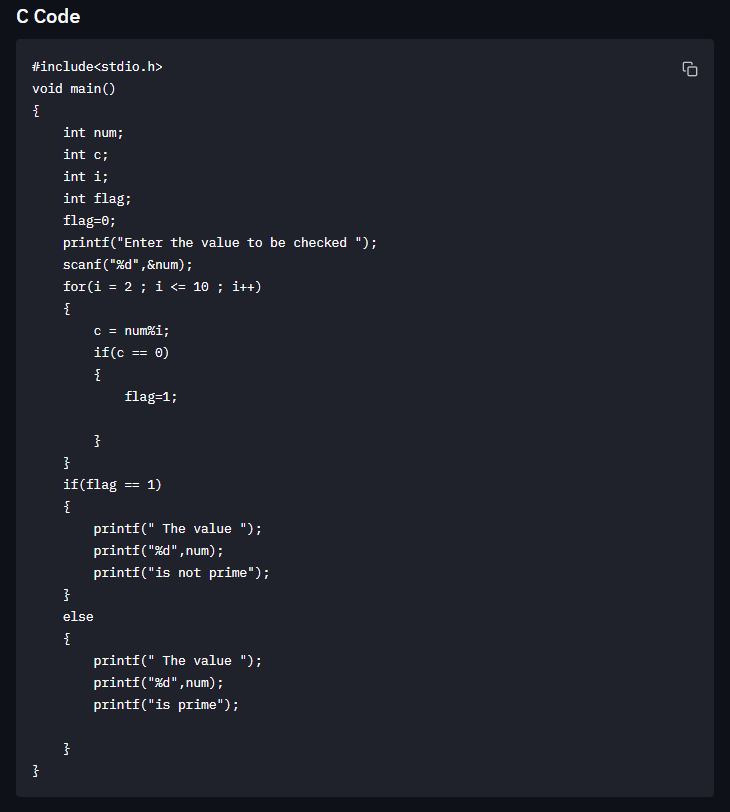
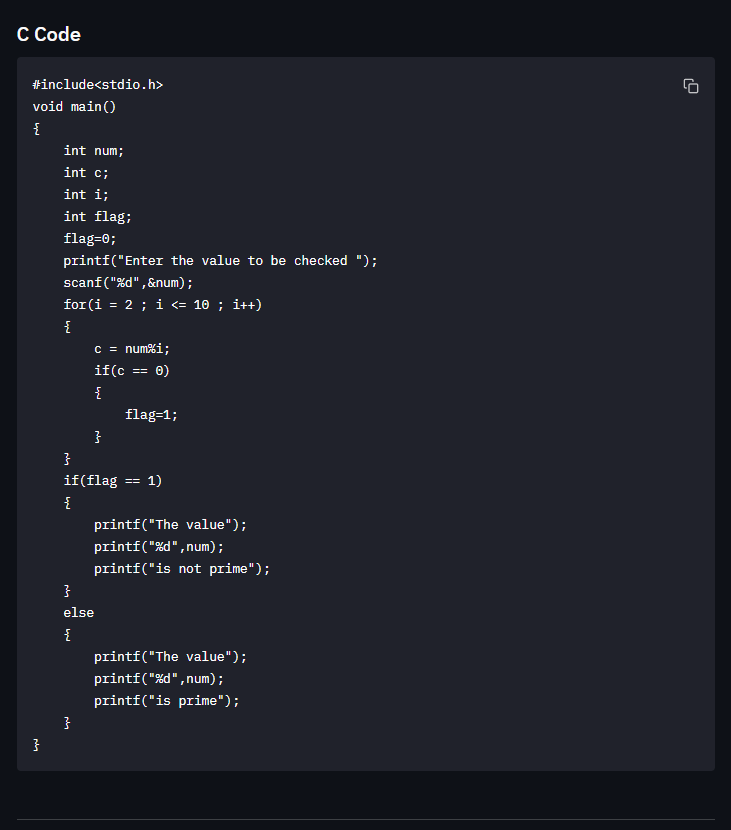
Fix a small bug with extra indentations
Small bug caused the if scopes to have an extra line

diff --git a/converterfunc.py b/converterfunc.py
@@ -108,11 +108,11 @@ class customParser(Parser):
     #      ;
     @_('IF CON THEN CODE ENDIF')
     def ST(self, p):
-        return "if(" + p.CON + ")\n{" + p.CODE + "\n}"
+        return "if(" + p.CON + ")\n{" + p.CODE + "}"
 
     @_('IF CON THEN CODE ELSE CODE ENDIF')
     def ST(self, p):
-        return "if(" + p.CON + ")\n{" + p.CODE0 + "}\nelse\n{" + p.CODE1 + "\n}"
+        return "if(" + p.CON + ")\n{" + p.CODE0 + "}\nelse\n{" + p.CODE1 + "}"
 
     @_('WHILE EXPR THEN CODE ENDWHILE')
     def ST(self, p):

diff --git a/README.md b/README.md
@@ -40,6 +40,9 @@ It produces the C code as the following
 #include<stdio.h>
 void main()
 {
+    #include<stdio.h>
+void main()
+{
     int num;
     int c;
     int i;
@@ -53,21 +56,19 @@ void main()
         if(c == 0)
         {
             flag=1;
-
         }
     }
     if(flag == 1)
     {
-        printf(" The value ");
+        printf("The value");
         printf("%d",num);
         printf("is not prime");
     }
     else
     {
-        printf(" The value ");
+        printf("The value");
         printf("%d",num);
         printf("is prime");
-
     }
 }
 ```
